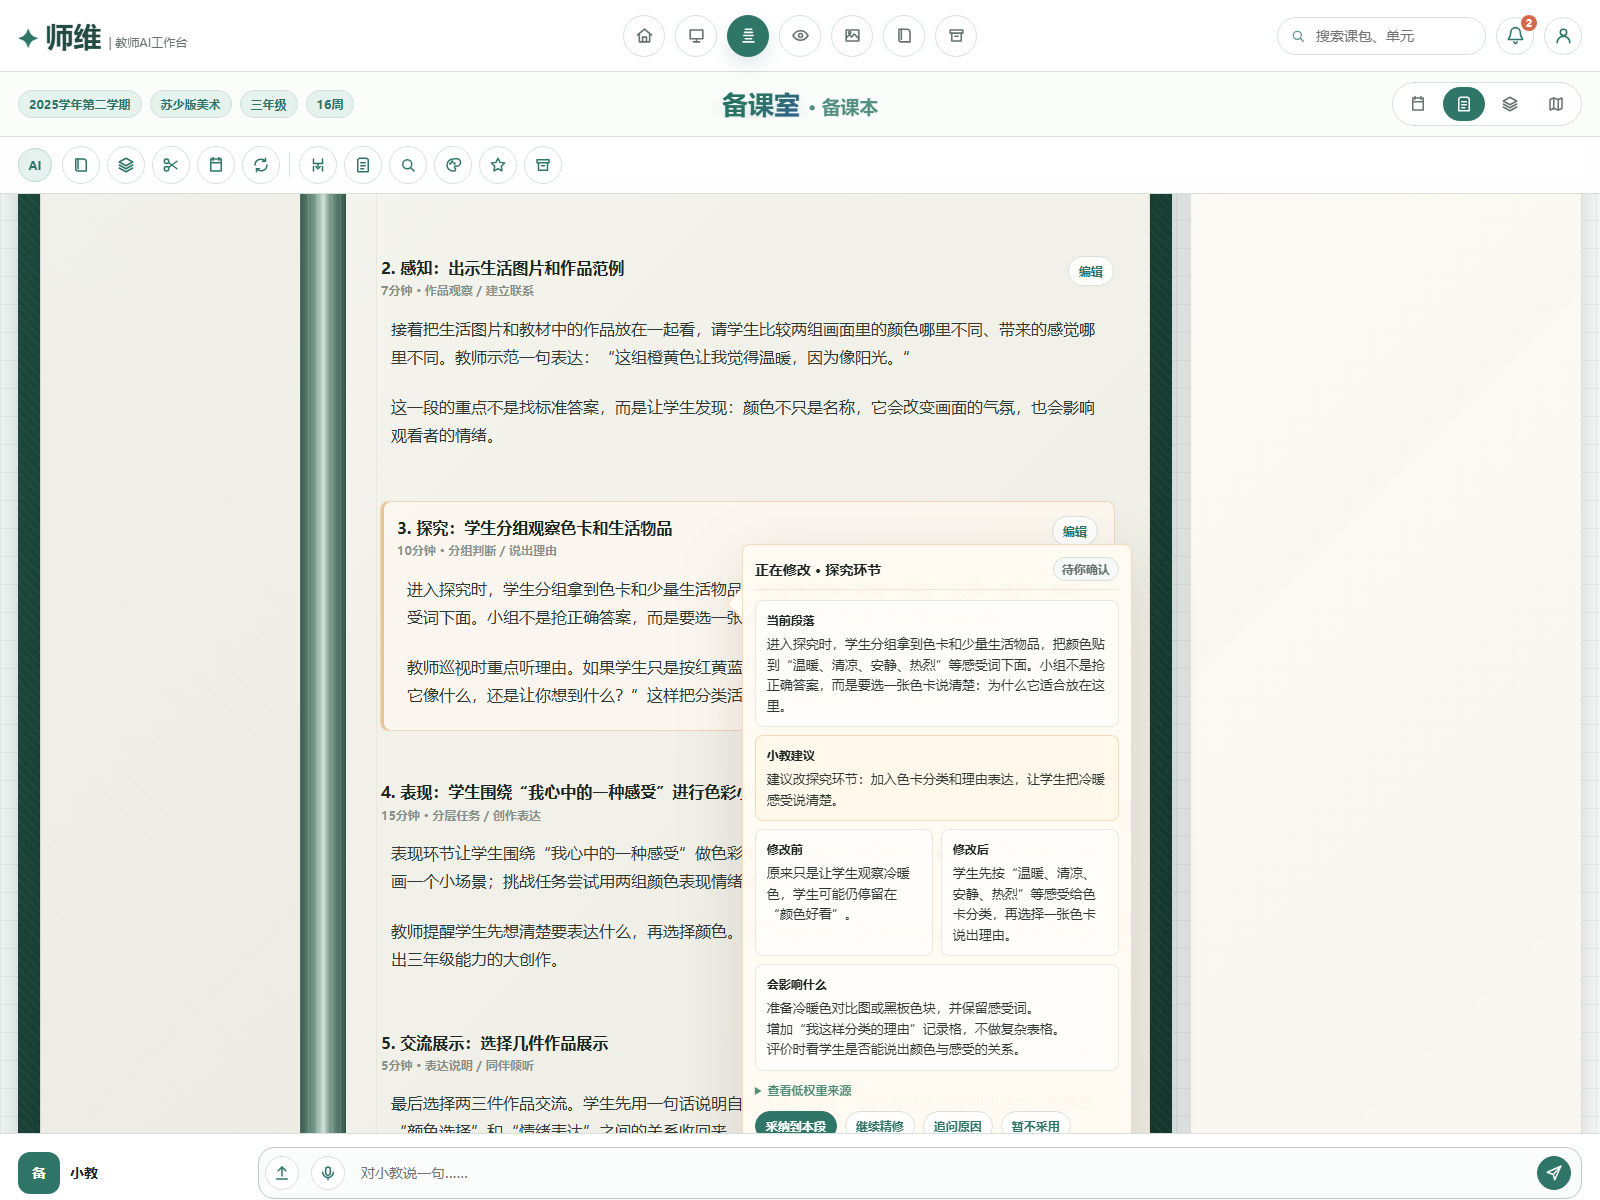
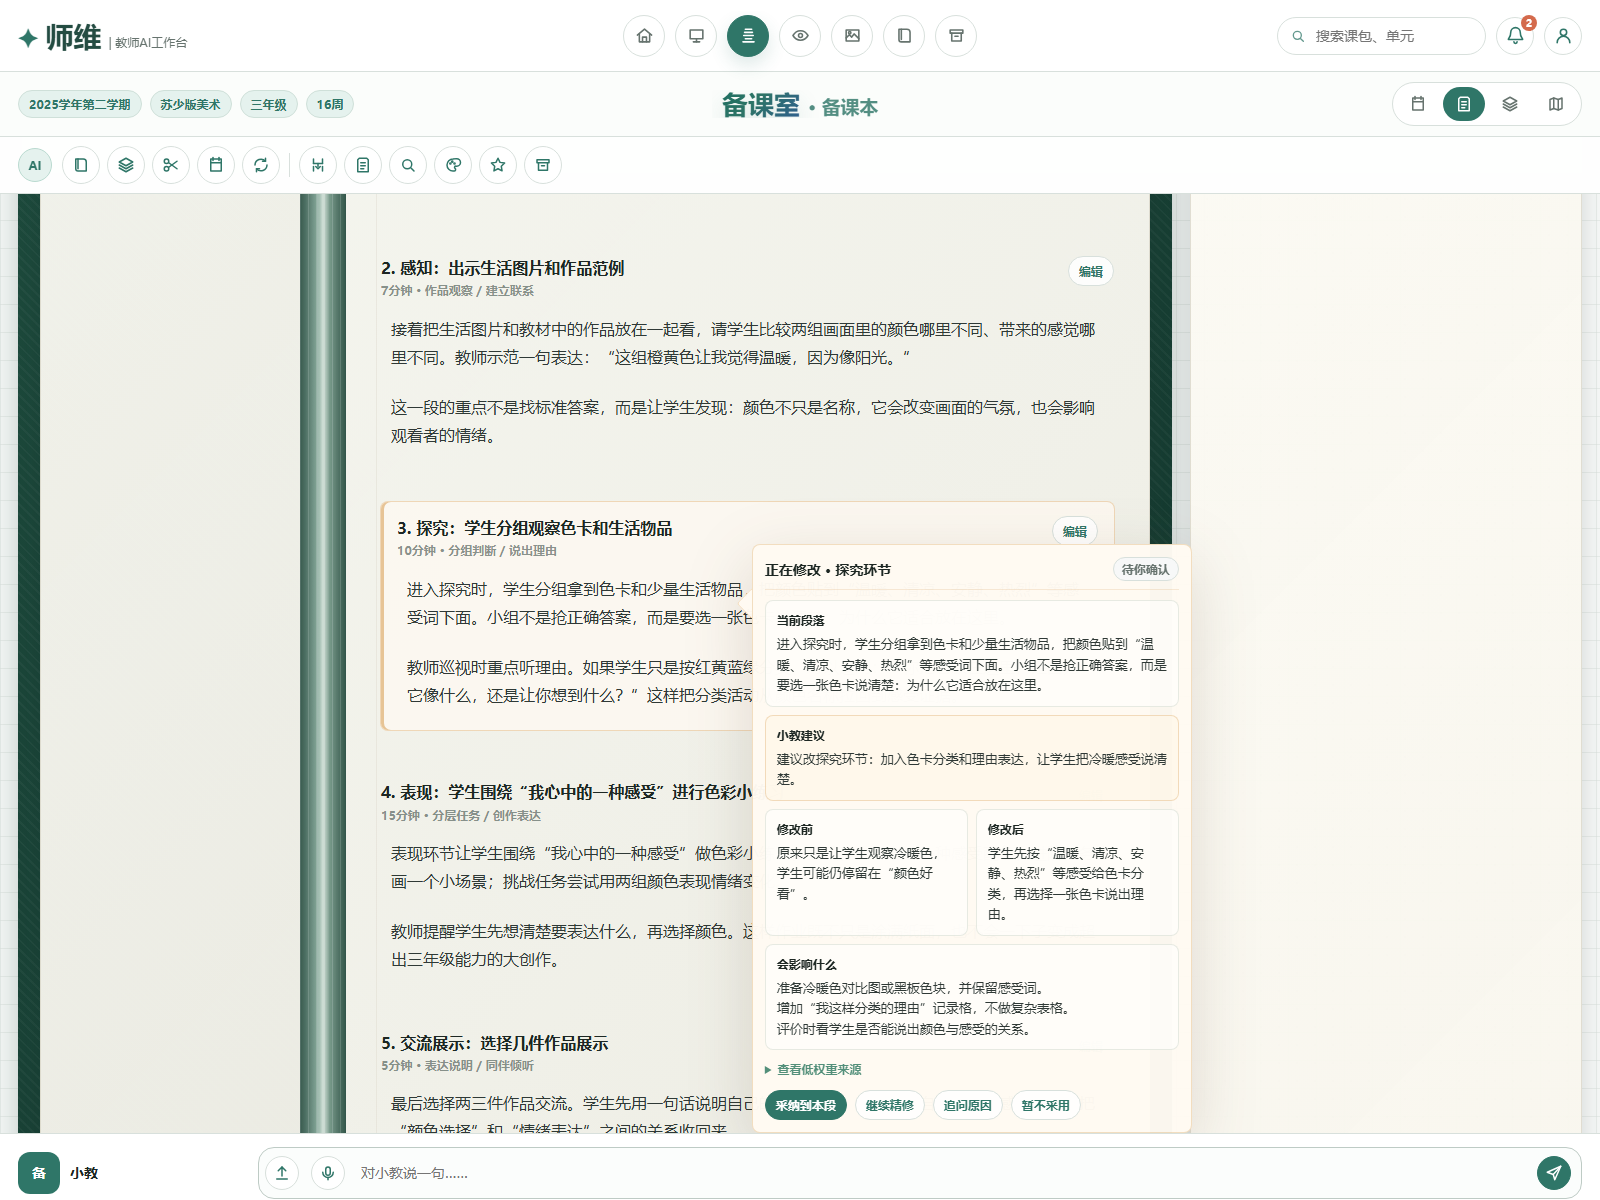
1013F_R2B1 tune edit bubble position and width

Changed region(s): [[0.4375, 0.4317, 0.75, 0.9558]]

diff --git a/prep_room_render_canvas_deepen_v1.html b/prep_room_render_canvas_deepen_v1.html
@@ -2244,8 +2244,8 @@
       position: absolute;
       z-index: 70;
       top: 42px;
-      right: -18px;
-      width: min(390px, calc(100vw - 48px));
+      right: -78px;
+      width: min(440px, calc(100vw - 72px));
       filter: drop-shadow(0 18px 32px rgba(78, 59, 36, 0.16));
     }
 

diff --git a/source_delta_1013F_R2B1/outputs/PREP_ROOM_RENDER_CANVAS_DEEPEN_V1/prep_room_render_canvas_deepen_v1.html b/source_delta_1013F_R2B1/outputs/PREP_ROOM_RENDER_CANVAS_DEEPEN_V1/prep_room_render_canvas_deepen_v1.html
@@ -2244,8 +2244,8 @@
       position: absolute;
       z-index: 70;
       top: 42px;
-      right: -18px;
-      width: min(390px, calc(100vw - 48px));
+      right: -78px;
+      width: min(440px, calc(100vw - 72px));
       filter: drop-shadow(0 18px 32px rgba(78, 59, 36, 0.16));
     }
 

diff --git a/source_delta_1013F_R2B1/scripts/run_prep_room_1013f_r2b1_edit_bubble_annotation_surface.py b/source_delta_1013F_R2B1/scripts/run_prep_room_1013f_r2b1_edit_bubble_annotation_surface.py
@@ -66,7 +66,7 @@ def evaluate(html: str) -> dict[str, Any]:
         "process_candidate_inline_removed": candidate_inline_removed,
         "edit_bubble_present": bubble_present,
         "bubble_arrow_present": arrow_present,
-        "bubble_overlays_right_area": "right: -18px" in html and "z-index: 70" in html,
+        "bubble_overlays_right_area": "right: -78px" in html and "z-index: 70" in html,
         "low_weight_source_in_bubble": "raw field keys: field_patch_candidates / impact_scope / student_response_model" in html,
         "default_entry_changed": 'active_view: "weekCalendar"' not in html,
     }